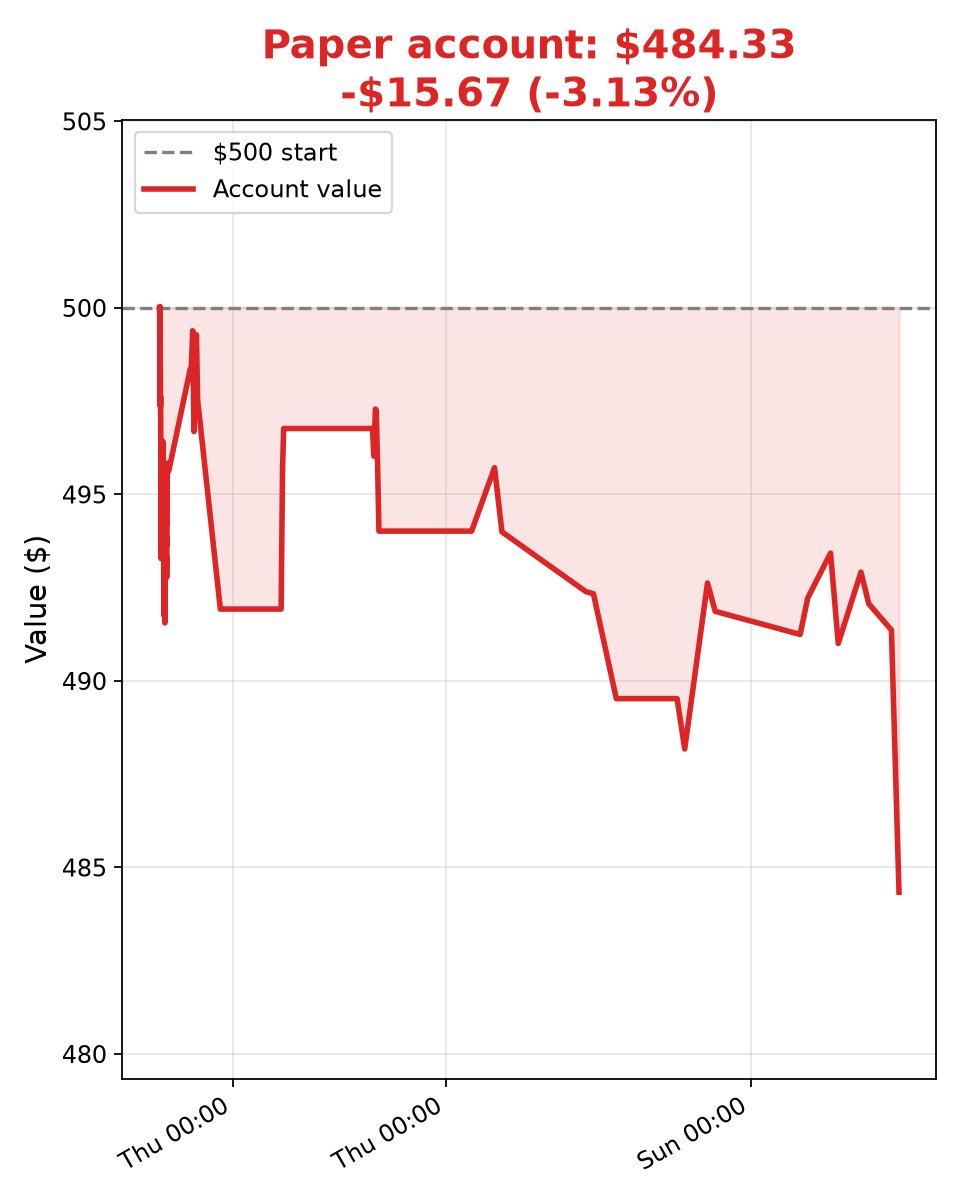
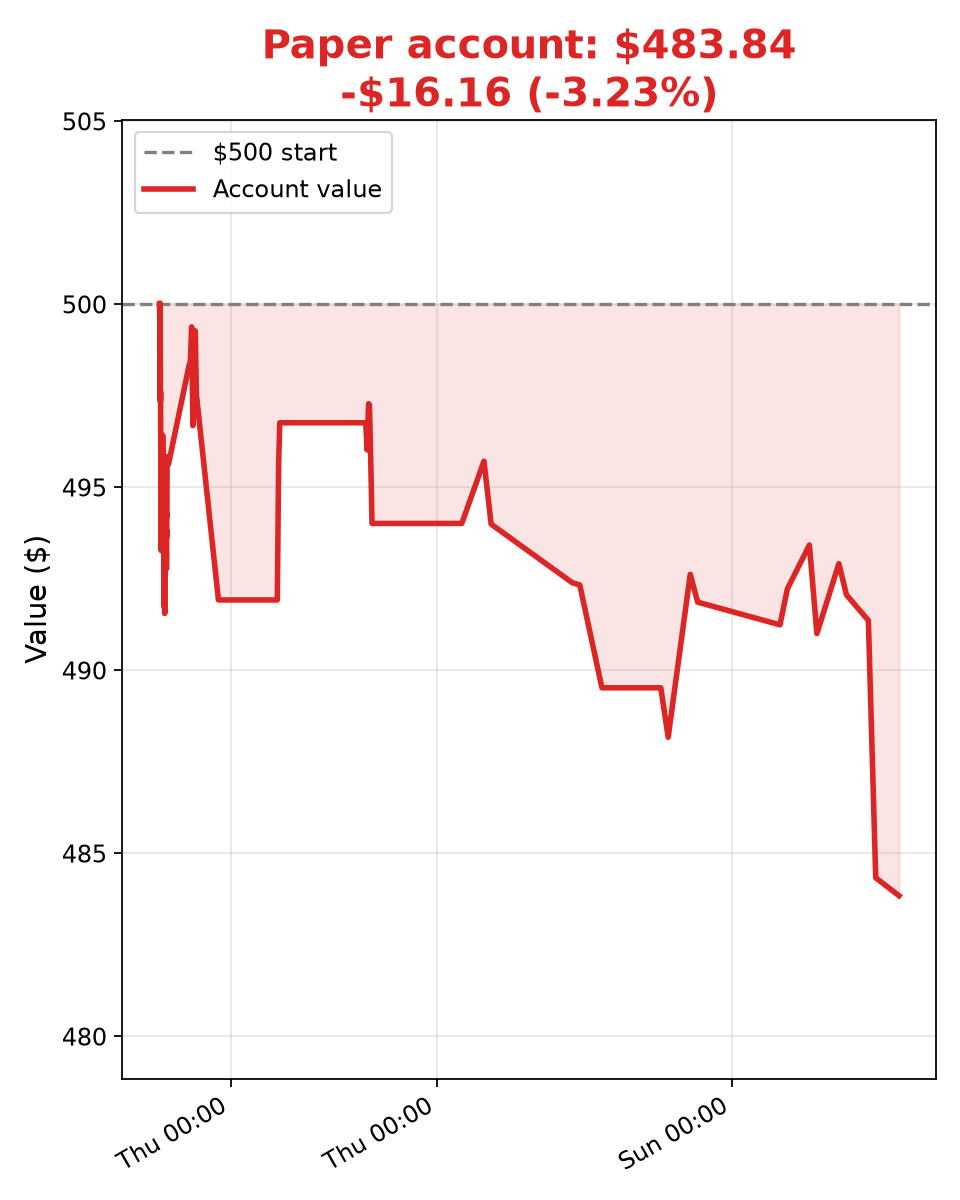
Update 2026-11-06T15:44:54Z

diff --git a/ledger.md b/ledger.md
@@ -253,3 +253,5 @@
 - 2026-11-04T20:58:00Z — total $492.06, cash $242.11 (swing check, 2:58 PM CT: bought MSFT 0.22 @ 556.09 on 52w-high breakout, 1.81x vol, stop 540; LLY 1417.93 (+2.0% vs entry), day low 1401.6 > stop 1330, stop held; SPY 766.5 above 200d 727.1 and 50d 766.5 — regime OK; AAPL 0.6% off high, DUOL/ISRG/SPOT 50d breakouts far off highs — skipped)
 - 2026-11-05T14:48:30Z — total $491.36, cash $242.11 (swing check, 8:49 AM CT, no trade; LLY 1432.47 (+3.1% vs entry), low 1417.9 > stop 1330; MSFT 546.94 (−1.6%), low 546.4 > stop 540, stops held; SPY 755.7 above 200d 727.5, below 50d 766.3 — regime OK, no chasing; APP 50d breakout 52% off high, ABBV/AAPL/ELF/SPOT near highs on light early vol — skipped)
 - 2026-11-05T20:47:23Z — total $484.33, cash $360.91 (swing check, 2:47 PM CT: MSFT stopped @ 540 at 9:25 AM CT, −$3.54; LLY 1371.31 (−1.3% vs entry), hit 1453 then faded, low 1368.4 > stop 1330, stop held; SPY 735.6 (−3.9%) still above 200d 727.4, well below 50d 765.9 — regime OK but weak, no new buys; ELF/AAPL/ABBV/APP breakouts reversed on the selloff — skipped)
+
+- 2026-11-06T15:44:53Z — total $483.84, cash $360.91 (swing check, 9:42 AM CT, no trade; LLY 1365.94 (−1.7% vs entry), day low 1333.22 > stop 1330, stop held; SPY 738.6 above 200d 727.7, below 50d 765.2 — regime OK but weak, no new buys; lone APP 50d breakout 49% off 52w high on 0.56x vol — skipped)
